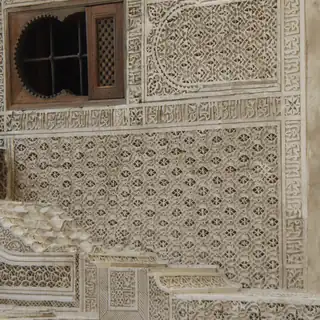
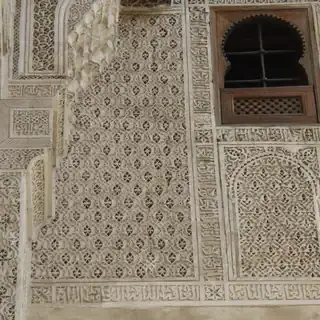
Update travels headings and rotate Hiszpania P7260217 images

diff --git a/docs/js/data/travels.js b/docs/js/data/travels.js
@@ -326,8 +326,8 @@ window.GALLERY_DATA.travels ={
     {
       "thumb": "images/Kuba/P3080043-thumb.webp",
       "large": "images/Kuba/P3080043-large.webp",
-      "caption": "„50 lat zmagań i zwycięstw” hasło propagandowe w Haw.",
-      "caption_en": "„50 lat zmagań i zwycięstw” hasło propagandowe w Haw."
+      "caption": "„50 lat zmagań i zwycięstw” hasło propagandowe w Hawanie.",
+      "caption_en": "„50 lat zmagań i zwycięstw” propagandowe hasło w Hawanie."
     },
     {
       "thumb": "images/Kuba/P3090053-thumb.webp",
@@ -600,8 +600,8 @@ window.GALLERY_DATA.travels ={
     {
       "thumb": "images/Indochiny/P1010171-thumb.webp",
       "large": "images/Indochiny/P1010171-large.webp",
-      "caption": "Mnich buddyjski z tradycji Therawanda jest na bieżąco z wiadomościami ze świata (pomarańczowy kolor szaty (kaszaja), naturalnie barwiony szafranem, symbolizuje prostotę i wewnętrzną przemianę. Kambodżańscy mnisi leśni preferują kolor bordowy.",
-      "caption_en": "Mnich buddyjski z tradycji Therawanda jest na bieżąco z wiadomościami ze świata (pomarańczowy kolor szaty (kaszaja), naturalnie barwiony szafranem, symbolizuje prostotę i wewnętrzną przemianę. Kambodżańscy mnisi leśni preferują kolor bordowy."
+      "caption": "Mnich buddyjski z tradycji Therawanda jest na bieżąco z wiadomościami ze świata pomarańczowy kolor szaty (kaszaja), naturalnie barwiony szafranem, symbolizuje prostotę i wewnętrzną przemianę. Kambodżańscy mnisi leśni preferują kolor bordowy.",
+      "caption_en": "Mnich buddyjski z tradycji Therawanda jest na bieżąco z wiadomościami ze świata (omarańczowy kolor szaty (kaszaja), naturalnie barwiony szafranem, symbolizuje prostotę i wewnętrzną przemianę. Kambodżańscy mnisi leśni preferują kolor bordowy."
     },
     {
       "thumb": "images/Indochiny/P1010353-thumb.webp",
@@ -1002,14 +1002,14 @@ window.GALLERY_DATA.travels ={
     {
       "thumb": "images/Afryka/P1010658-thumb.webp",
       "large": "images/Afryka/P1010658-large.webp",
-      "caption": "Park Narodowy bezpiecznego safari.",
-      "caption_en": "Park Narodowy bezpiecznego safari."
+      "caption": "Park Narodowy Bezpiecznego Safari.",
+      "caption_en": "Park Narodowy Bezpiecznego Safari."
     },
     {
       "thumb": "images/Afryka/P1010659-thumb.webp",
       "large": "images/Afryka/P1010659-large.webp",
-      "caption": "Park Narodowy bezpiecznego safari.",
-      "caption_en": "Park Narodowy bezpiecznego safari."
+      "caption": "Park Narodowy Bezpiecznego Safari.",
+      "caption_en": "Park Narodowy Bezpiecznego Safari."
     },
     {
       "thumb": "images/Afryka/P1020019-thumb.webp",